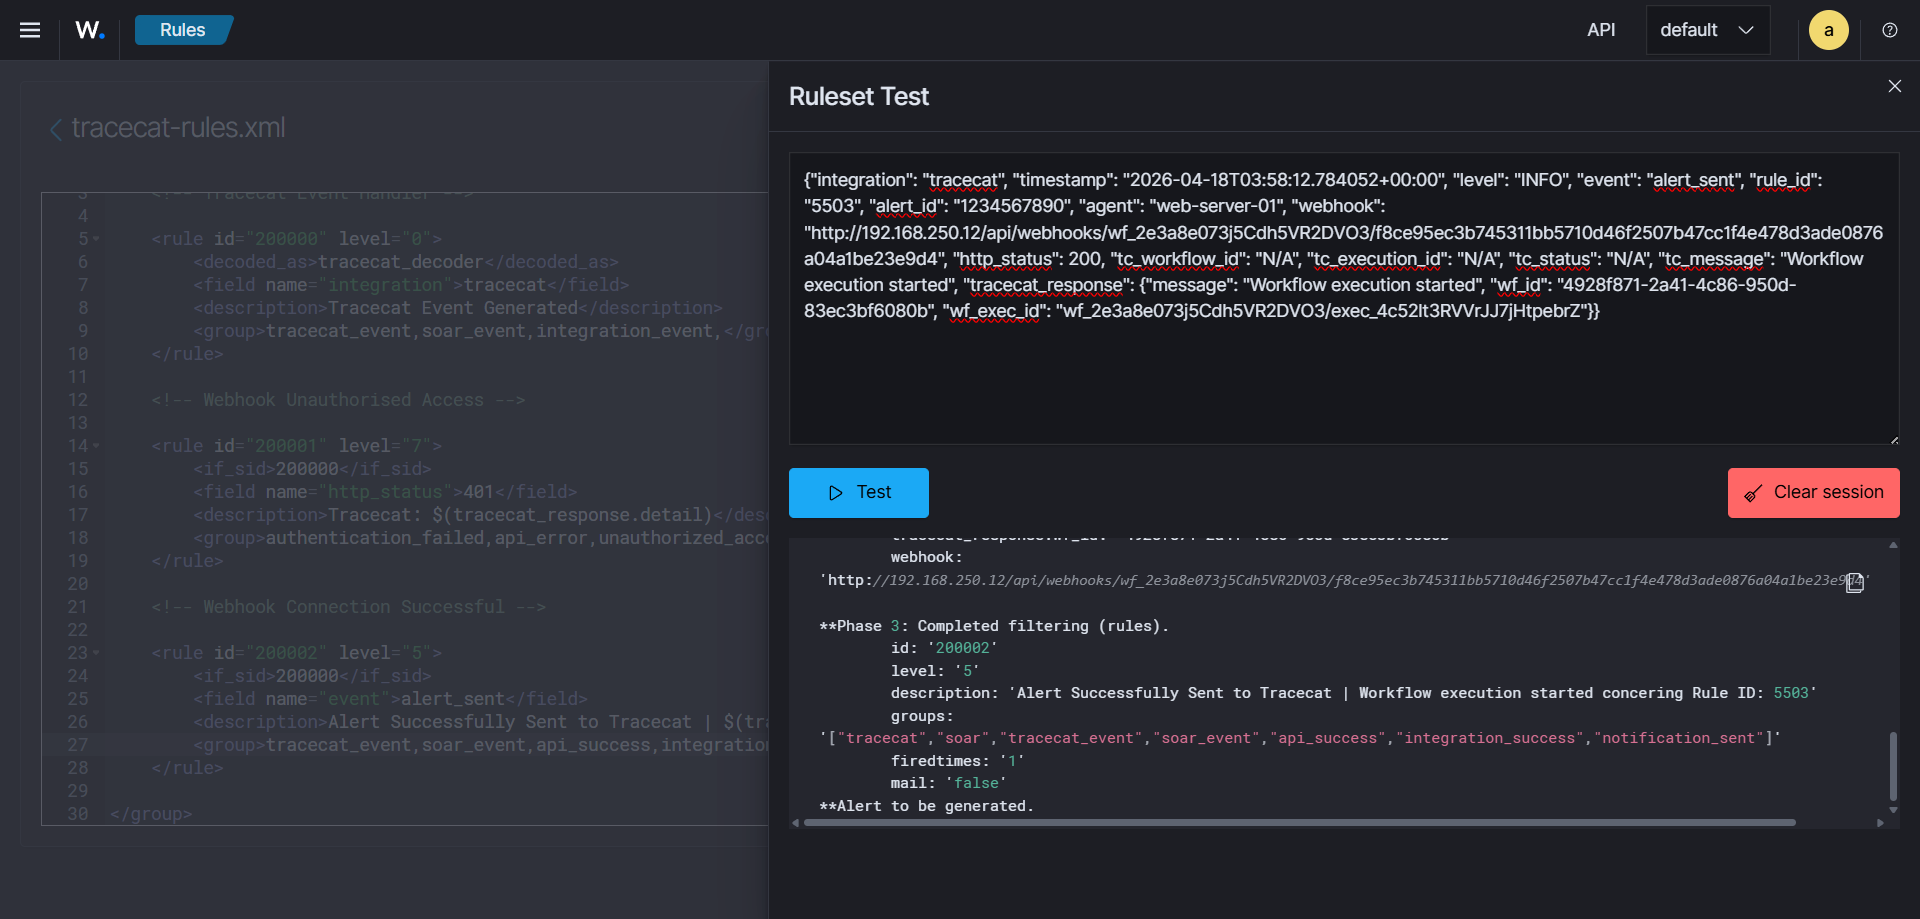
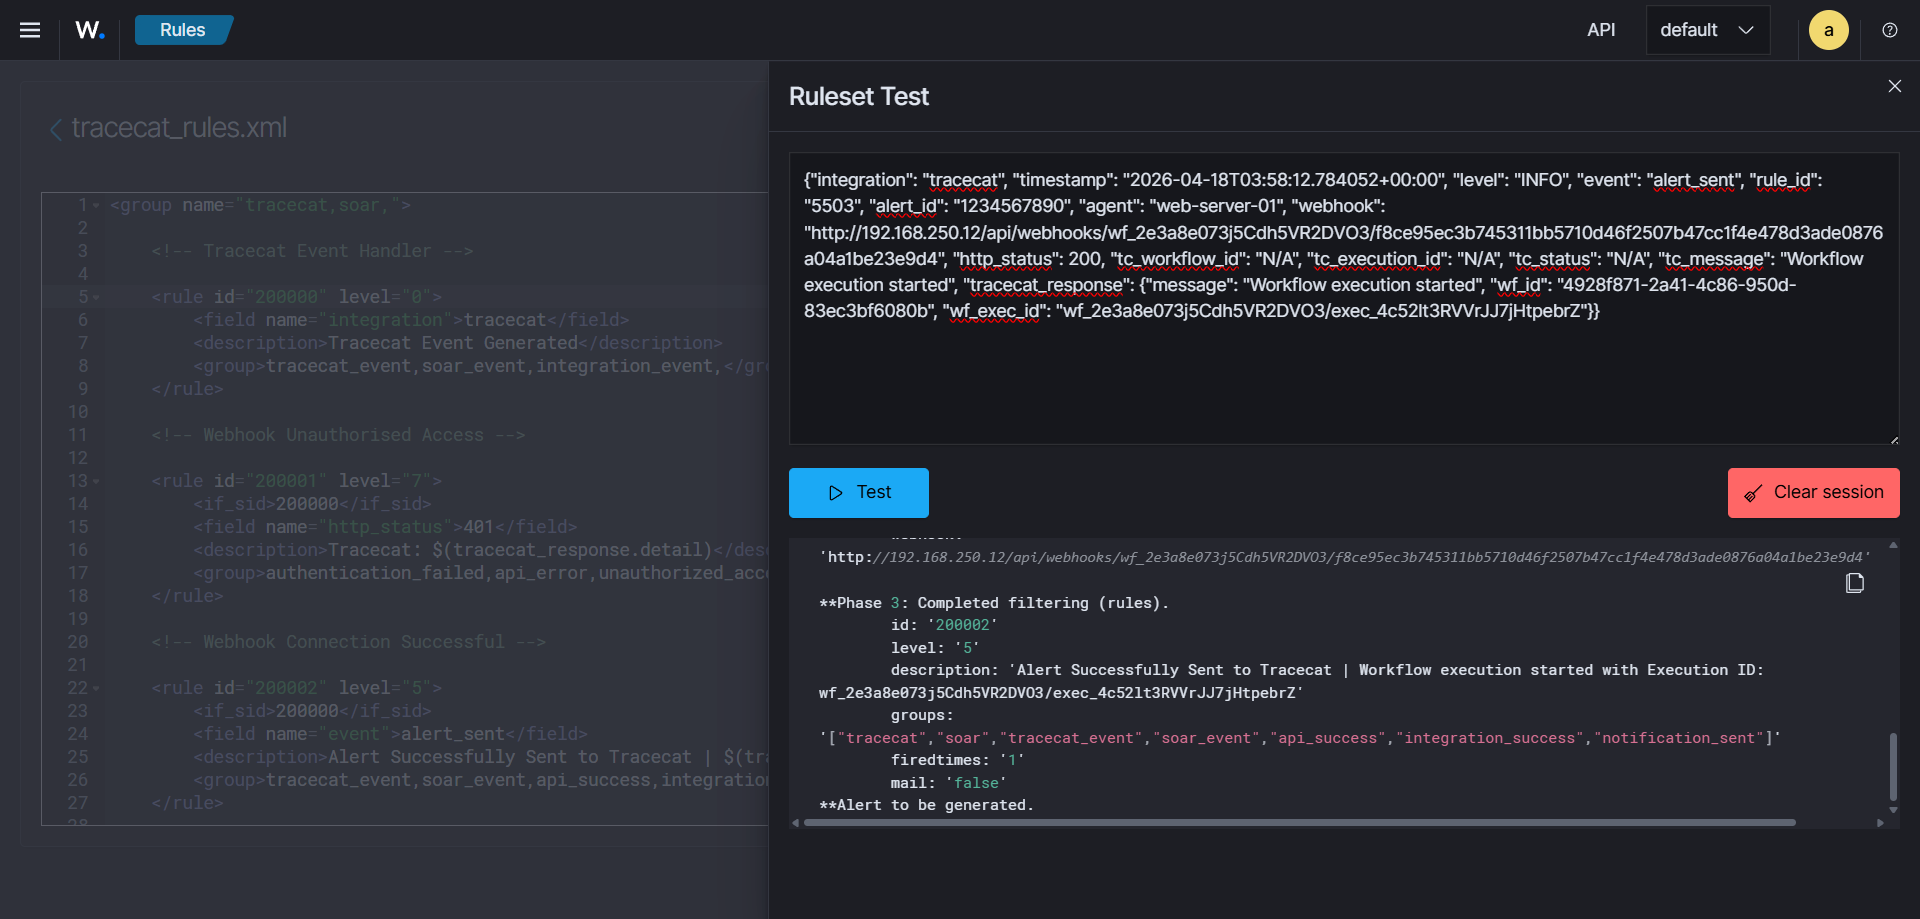
Update images and documentation for Wazuh-Tracecat integration

diff --git a/source/projects/wazuh-tracecat-integration/wazuh-server.rst b/source/projects/wazuh-tracecat-integration/wazuh-server.rst
@@ -73,38 +73,21 @@ After adding this configuration, save the file and restart the Wazuh manager to 
 This will ensure that the Wazuh server is now configured to execute the ``custom-tracecat`` integration script whenever an alert with 
 the specified level or higher is generated, allowing you to automate your incident response workflows using Tracecat.
 
-Creating Custom Decoder
------------------------
+Creating Custom Rules
+---------------------
 
-I personally thought that Wazuh should have a more specific decoder for Tracecat related events, 
+I personally thought that Wazuh should have a more specific rules for Tracecat related events, 
 it believe it is essential to have it to be able to easily track and filter Tracecat related events in Wazuh,
 specially when it can come handy in case where incident responders want to track the history of playbook executions and 
 the triggered alerts that led to these playbook executions while reporting.
 
-Create a custom decoder naming it ``0001-tracecat-decoder.xml`` from the Wazuh Dashboard and add the following content to it,
-
-.. code-block:: xml
-    
-    <decoder name="tracecat_decoder">
-        <prematch>^{"integration": "tracecat"</prematch>
-        <plugin_decoder>JSON_Decoder</plugin_decoder>
-        <use_own_name>true</use_own_name>
-    </decoder>
-
-Hit save and reload to apply the changes.
-
 .. note::
 
-    The naming convention for the custom decoders, specifically the JSON decoders matters here.
-    Refer to the :doc:`Understanding & Manipulating JSON Decoders <../../knowledge-base/understand-manipulate-json-decoders-wazuh/understand-manipulate-json-decoders-wazuh>`
-    page for more details about the importance of naming convention and the order of JSON decoders in Wazuh.
+    Wazuh already has its default JSON decoder that can decode any JSON log, including the logs generated by our integration script.
+    Refer to Wazuh's `JSON Decoder <https://documentation.wazuh.com/current/user-manual/ruleset/decoders/json-decoder.html>`_
+    documentation learn more about its default JSON decoder and how it works.
 
-Creating Custom Rules
----------------------
-
-After creating the custom decoder, it's time to create custom rules to generate alerts based on the decoded events.
-
-Create a custom rule file naming it ``tracecat-rules.xml`` in the wazuh dasboard and add the following content to it,
+Create a custom rule file naming it ``tracecat_rules.xml`` in the wazuh dasboard and add the following content to it,
 
 .. code-block:: xml
     
@@ -113,7 +96,6 @@ Create a custom rule file naming it ``tracecat-rules.xml`` in the wazuh dasboard
         <!-- Tracecat Event Handler -->
 
         <rule id="200000" level="0">
-            <decoded_as>tracecat_decoder</decoded_as>
             <field name="integration">tracecat</field>
             <description>Tracecat Event Generated</description>
             <group>tracecat_event,soar_event,integration_event,</group>
@@ -133,7 +115,7 @@ Create a custom rule file naming it ``tracecat-rules.xml`` in the wazuh dasboard
         <rule id="200002" level="5">
             <if_sid>200000</if_sid>
             <field name="event">alert_sent</field>
-            <description>Alert Successfully Sent to Tracecat | $(tracecat_response.message) concering Rule ID: $(rule_id)</description>
+            <description>Alert Successfully Sent to Tracecat | $(tracecat_response.message) with Execution ID: $(tracecat_response.wf_exec_id)</description>
             <group>tracecat_event,soar_event,api_success,integration_success,notification_sent,</group>
         </rule>
         
@@ -141,7 +123,7 @@ Create a custom rule file naming it ``tracecat-rules.xml`` in the wazuh dasboard
 
 Hit save and reload to apply the changes.
 
-In the above rules, we have created a base rule with ID 200000 that matches any event decoded by our custom decoder.
+In the above rules, we have created a base rule with ID 200000 that matches any event decoded by the default JSON decoder.
 Then, we have created two child rules with IDs 200001 and 200002 that trigger based on specific conditions related to 
 the HTTP status of the response from Tracecat and the event type.
 
@@ -153,13 +135,13 @@ playbook executions and the triggered alerts that led to these playbook executio
 Testing the Decoder and Rules
 -----------------------------
 
-Copy and paste the following sample log in the Rules Testing Tool in the Wazuh Dashboard to see if the decoder and rules are working as expected,
+Copy and paste the following sample log in the Rules Testing Tool in the Wazuh Dashboard to see if the rules are working as expected,
 
 .. code-block:: json
 
     {"integration": "tracecat", "timestamp": "2026-04-18T03:58:12.784052+00:00", "level": "INFO", "event": "alert_sent", "rule_id": "5503", "alert_id": "1234567890", "agent": "web-server-01", "webhook": "http://192.168.250.12/api/webhooks/wf_2e3a8e073j5Cdh5VR2DVO3/f8ce95ec3b745311bb5710d46f2507b47cc1f4e478d3ade0876a04a1be23e9d4", "http_status": 200, "tc_workflow_id": "N/A", "tc_execution_id": "N/A", "tc_status": "N/A", "tc_message": "Workflow execution started", "tracecat_response": {"message": "Workflow execution started", "wf_id": "4928f871-2a41-4c86-950d-83ec3bf6080b", "wf_exec_id": "wf_2e3a8e073j5Cdh5VR2DVO3/exec_4c52lt3RVVrJJ7jHtpebrZ"}}
 
-You should see that the log is successfully decoded by our custom decoder and the appropriate rules are triggered based on the content of the log.
+You should see that the log is successfully decoded by our default JSON decoder by the name `json` and the appropriate rules are triggered based on the content of the log.
 
 Follow the image below for a high level overview of the testing process,
 
@@ -171,5 +153,33 @@ Follow the image below for a high level overview of the testing process,
     
     <div style="height:25px;"></div>
 
-This confirms that our custom decoder and rules are working as expected, and we should now be able to track Tracecat related events in Wazuh based on the defined rules.
+This confirms that our custom rules are working as expected, and we should now be able to track Tracecat related events in Wazuh based on the defined rules.
 
+Setting up Tracecat's Log Ingestion in Wazuh
+--------------------------------------------
+
+After creating and testing the custom rules, there is only one thing left to do, setting up the ``<localfile>`` directive in wazuh's configuration file
+in order to tracecat's log to be automatically ingested into wazuh for monitoring and alerting purposes.
+
+Add the following block in the Wazuh Manager Server configuration file, which is typically located at ``/var/ossec/etc/ossec.conf``, 
+and search for the ``<localfiles>`` section,
+
+.. code-block:: xml
+
+    <localfile>
+        <log_format>json</log_format>
+        <location>/var/ossec/logs/tracecat.log</location>
+    </localfile> 
+
+Now, save the file and restart the Wazuh manager to apply the changes:
+
+.. code-block:: bash
+    
+    sudo systemctl restart wazuh-manager
+
+This configuration tells Wazuh to monitor the ``/var/ossec/logs/tracecat.log`` file for new entries, and to parse them as JSON logs.
+
+.. important::
+
+    Typcially, it is mostly seem that logs are pretty much collected from the wazuh agent monitored endpoints, but in this case we are collecting logs from 
+    the Wazuh Manager, as the the traceat log are basically being generated from the integration script and the log will be created in the Wazuh Manager.

diff --git a/source/projects/wazuh-tracecat-integration/tracecat-server-components.rst b/source/projects/wazuh-tracecat-integration/tracecat-server-components.rst
@@ -142,6 +142,16 @@ You can use the following command to view the logs:
 
 This command will display the latest entries in the ``tracecat.log`` file in real-time, allowing you to monitor the integration's activities and identify any potential issues.
 
+Besides, with the custom rules that we configuired earlier, you should also be able to see Wazuh Event Logs like the image below,
+
+.. image:: ../../assets/images/projects/wazuh-tracecat-integration/tracecat-server-workflow-contifiguration-4.png
+    :alt: Tracecat Server, Reshape Component Showing the Incoming Json Data from Wazuh Alerts
+    :align: center
+
+.. raw:: html
+    
+    <div style="height:25px;"></div>
+
 With the Wazuh server configured to execute the integration script, 
 you can now proceed to the prerequisite steps for setting up the Tracecat server and 
 ensuring that it can receive the alerts from Wazuh and trigger the corresponding workflows.
@@ -174,7 +184,7 @@ automatically filled based on the YAML configuration, but you can always edit th
 
 Follow the image below for a high level view of how the Http Request component is configured in the workflow,
 
-.. image:: ../../assets/images/projects/wazuh-tracecat-integration/tracecat-server-workflow-contifiguration-4.png
+.. image:: ../../assets/images/projects/wazuh-tracecat-integration/tracecat-server-workflow-contifiguration-5.png
     :alt: Tracecat Server, Configuration of Http Request Component in the Workflow
     :align: center
 
@@ -189,7 +199,7 @@ and you can use it in the other components that require it by using the expressi
 
 Refer to the image below to see how the JWT token can be accessed in the other components using expressions,
 
-.. image:: ../../assets/images/projects/wazuh-tracecat-integration/tracecat-server-workflow-contifiguration-5.png
+.. image:: ../../assets/images/projects/wazuh-tracecat-integration/tracecat-server-workflow-contifiguration-6.png
     :alt: Tracecat Server, Accessing the JWT Token in Other Components Using Expressions
     :align: center
 
@@ -215,7 +225,7 @@ replace it in the expression syntax like this: ``${{ rule.id }}``
 
 Follow the image below for a high level view of how to use expressions to access the fields from the incoming json data from Wazuh alerts,
 
-.. image:: ../../assets/images/projects/wazuh-tracecat-integration/tracecat-server-workflow-contifiguration-6.png
+.. image:: ../../assets/images/projects/wazuh-tracecat-integration/tracecat-server-workflow-contifiguration-7.png
     :alt: Tracecat Server, Using Expressions to Access the Fields from the Incoming Json Data from Wazuh Alerts
     :align: center
 

diff --git a/source/projects/wazuh-tracecat-integration/what-we-will-learn.rst b/source/projects/wazuh-tracecat-integration/what-we-will-learn.rst
@@ -4,6 +4,7 @@ What We'll Learn?
 In this project, we will learn how to integrate Wazuh with Tracecat to automate security responses. The key learning outcomes include:
 
 - **Deploy Integration Scripts**: Place custom-tracecat.py and its wrapper into Wazuh's integration directory—then unlock the bridge
+- **Create Custom Rules**: Create custom rules for Tracecat related events.
 - **Configure ossec.conf for Automation**: Wire up webhook URLs, API keys, and alert triggers to make Wazuh talk to Tracecat
 - **Master Tracecat Secrets**: Safely store and reference wazuh-wui credentials and other API keys across your workflows
 - **Understand the Trigger Component**: The gatekeeper—how alerts flow in and workflows ignite
